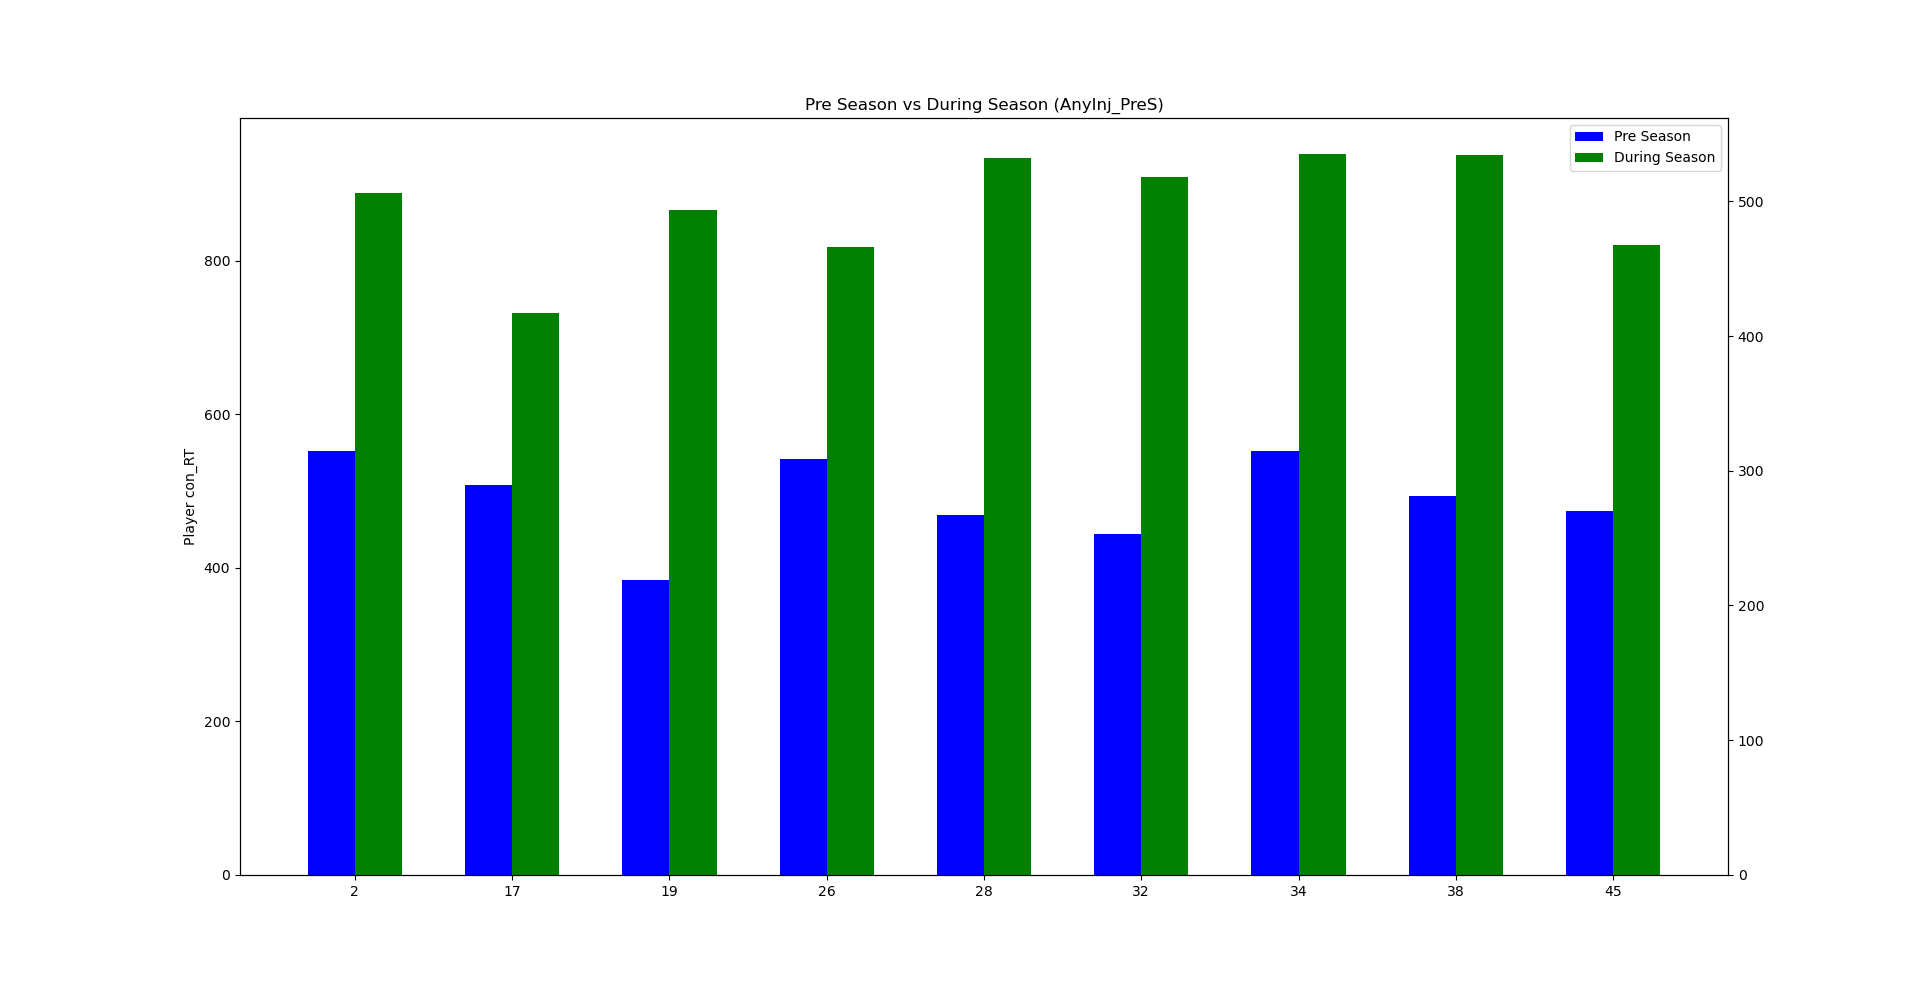
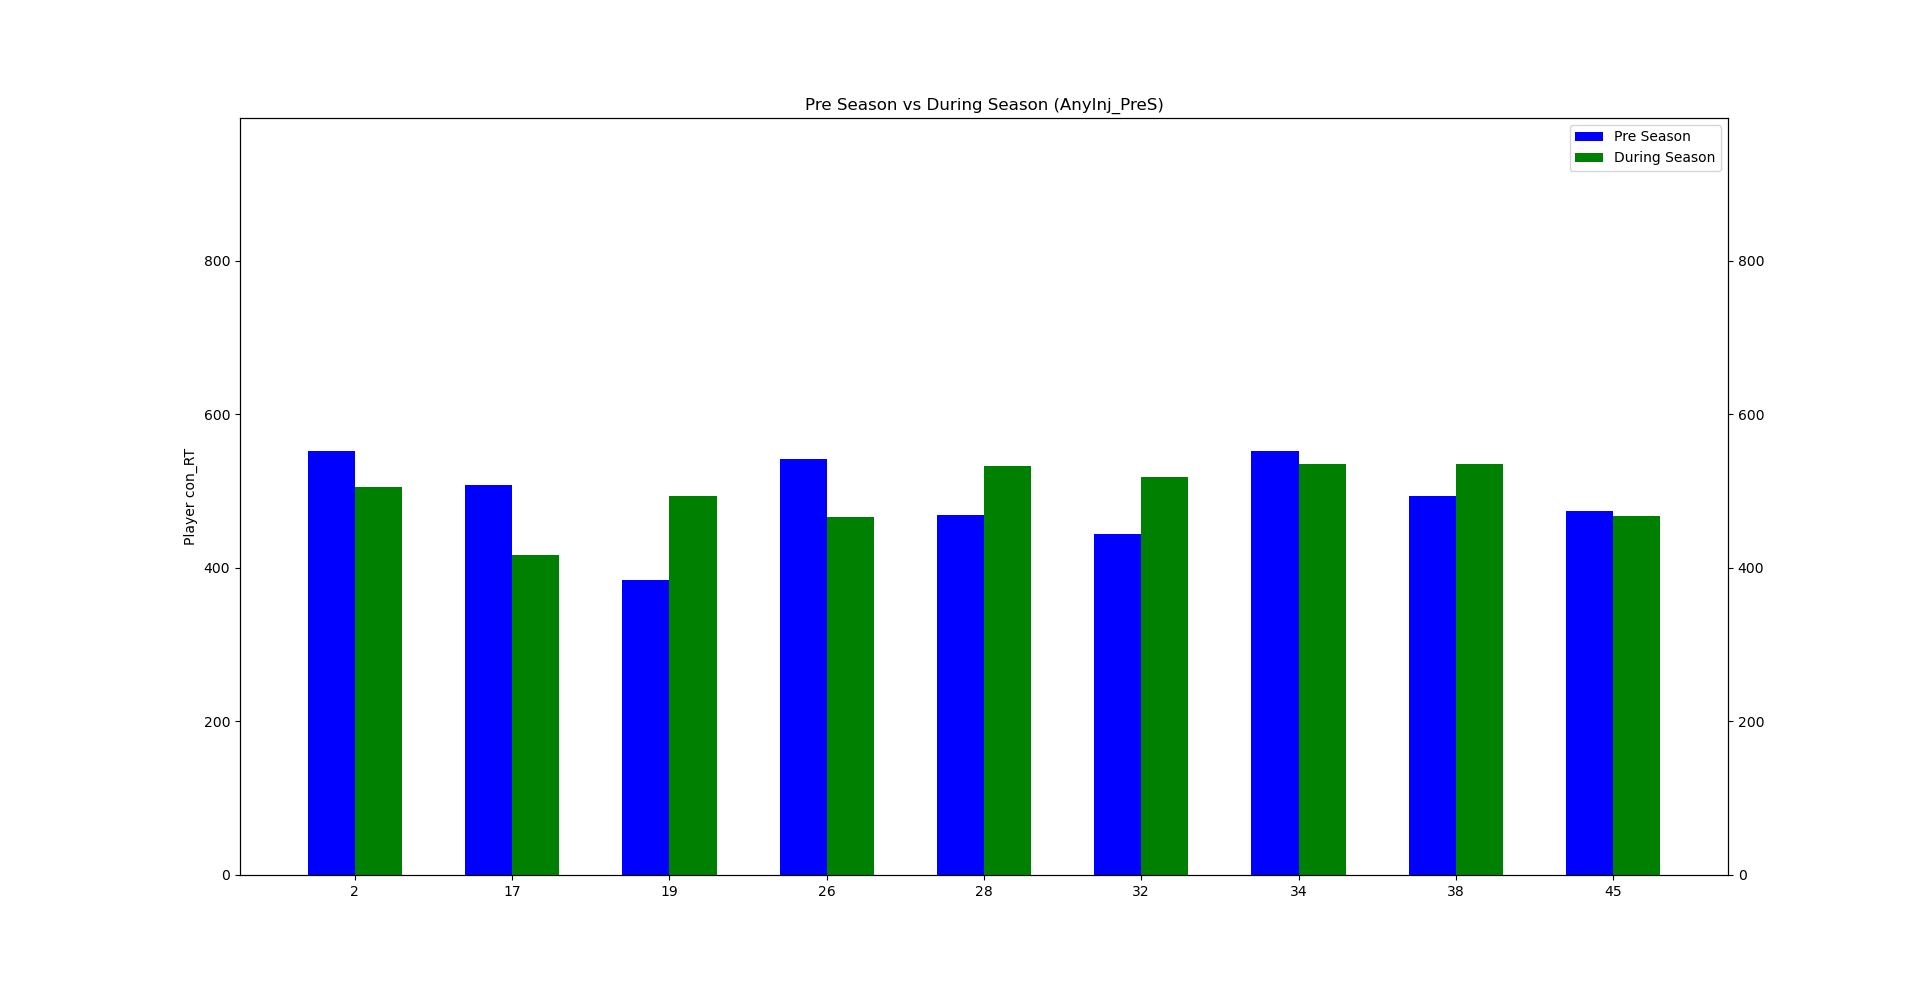
Fixed the issue with graph axis not matching

diff --git a/Code/visualizingData.py b/Code/visualizingData.py
@@ -15,20 +15,19 @@ def compareGraph(preSeason, duringSeason, variableGraphed, variableCut, ylimit):
     preS_values = ax1.bar(xValues, preSeason[variableGraphed].values, width=w, color='b', align='center')
 
     # The trick is to use two different axes that share the same x axis, we have used ax1.twinx() method
-    # Since we set the y limit before calling twinx, ax2 now has the same ylimit as ax1
-    ax1.set_ylim([0, ylimit + 50])
     ax2 = ax1.twinx()
 
     durS_values = ax2.bar(xValues+w, duringSeason[variableGraphed].values, width=w, color='g', align='center')
     plt.legend([preS_values, durS_values], ['Pre Season', 'During Season'])
-
+    ax1.set_ylim([0, ylimit + 50])
+    ax2.set_ylim([0, ylimit + 50])
     # Change the title of the graph based on how you cut the data
     plt.title("Pre Season vs During Season (%s)" % variableCut)
     plt.show()
 
 
-variableCut = 'CLEI_PreS'  # variable used to split the data
-variableGraphed = "inc_RT"  # variable you want to graph
+variableCut = 'AnyInj_PreS'  # variable used to split the data
+variableGraphed = "efficiency"  # variable you want to graph
 # In the cut versions of the data below, change the value after == to determine how you want the data cut
 preSeason = pandas.read_csv("../Data/Query Results Pre Season.csv")
 preSeason_cut = preSeason[preSeason[variableCut] == 1]
